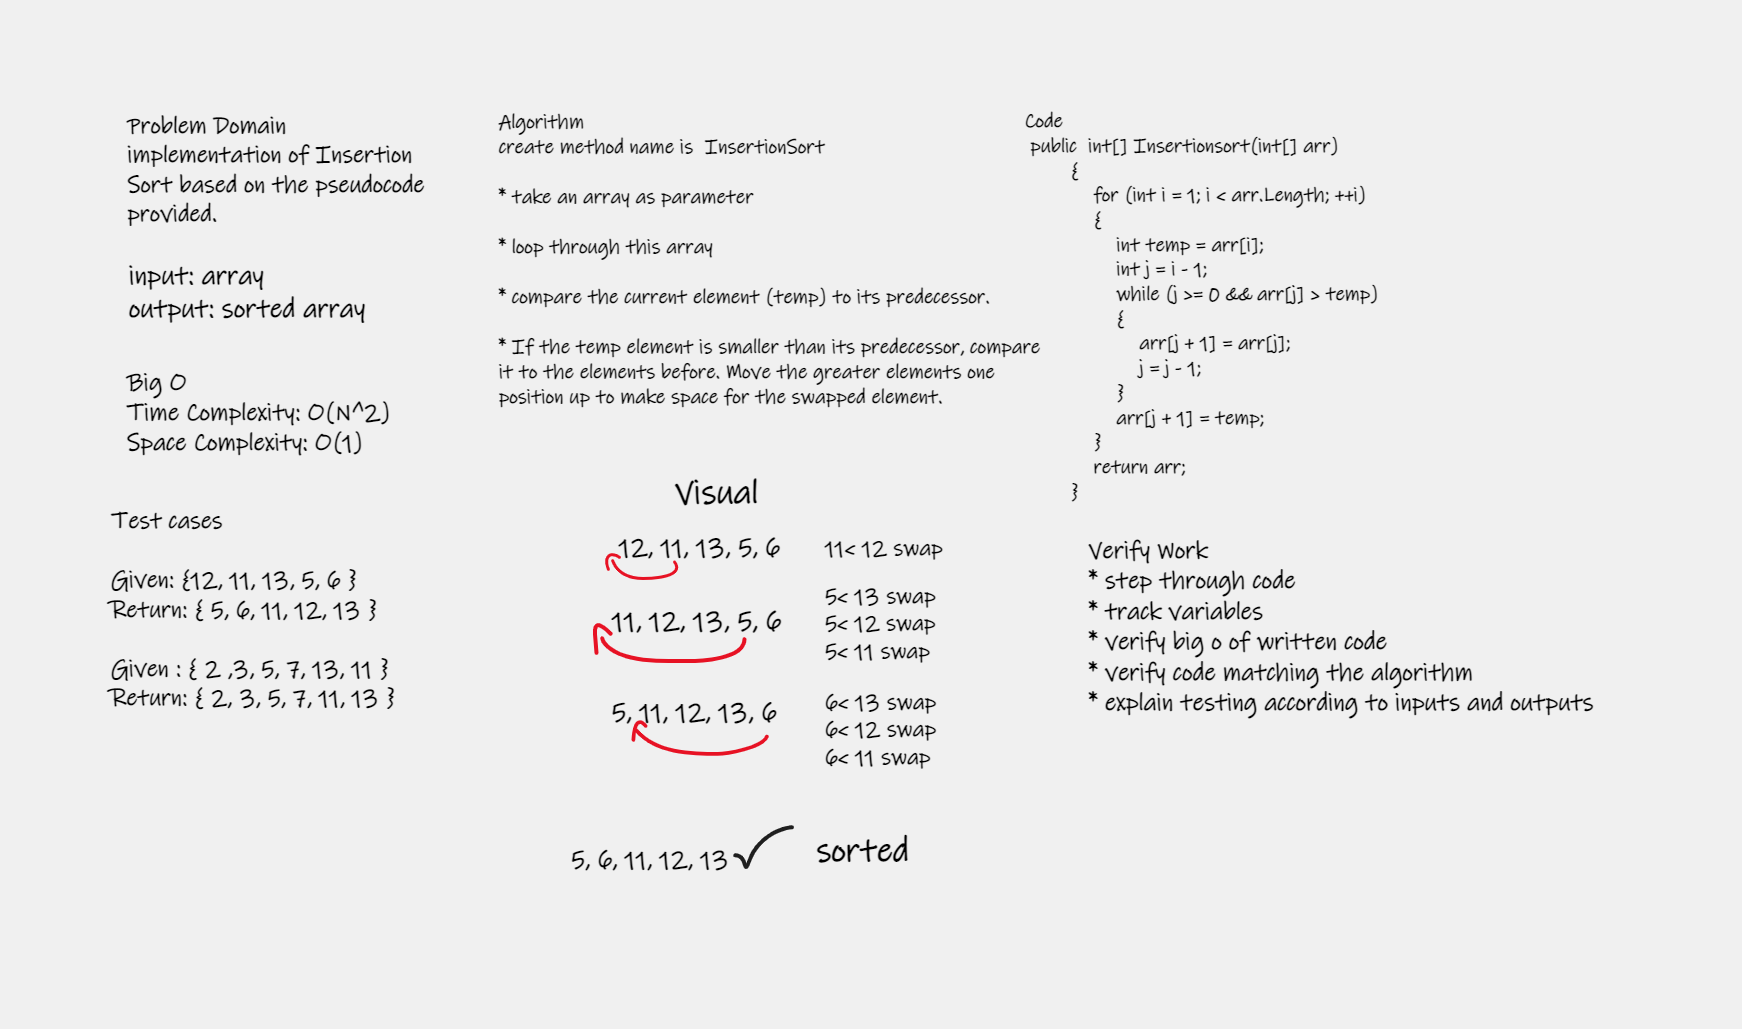
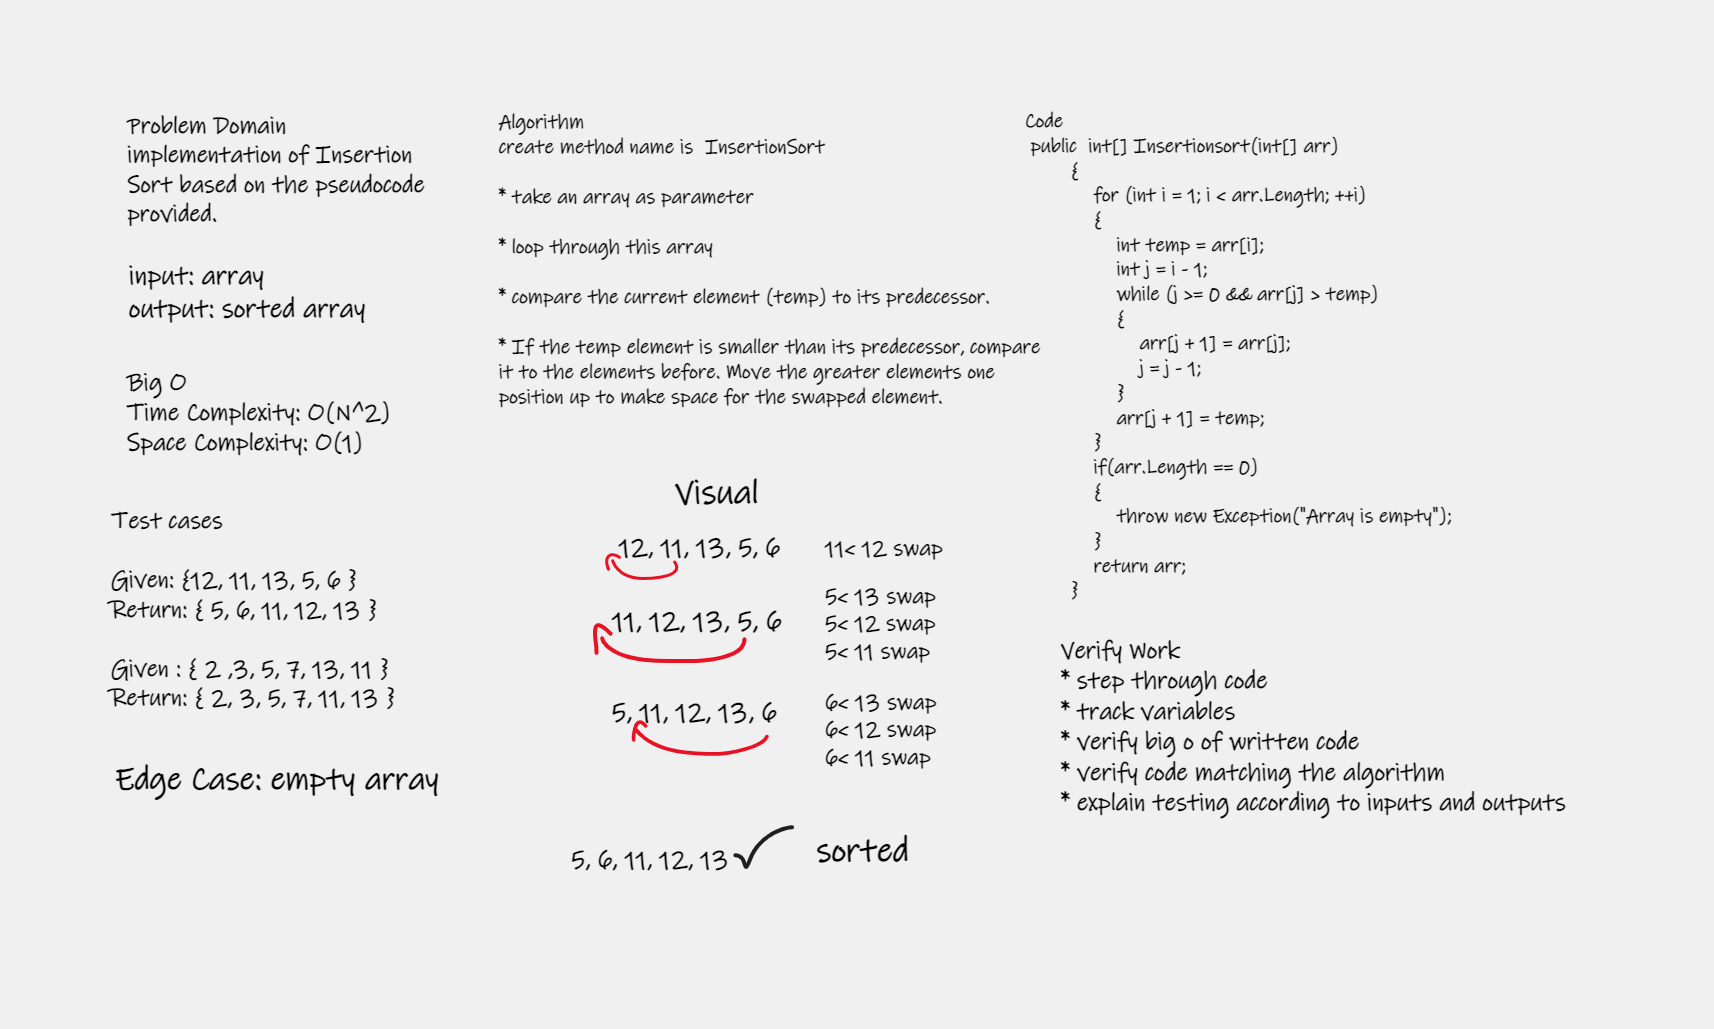
updates

diff --git a/ConsoleApp/TestProject2/TestInsertionSort.cs b/ConsoleApp/TestProject2/TestInsertionSort.cs
@@ -68,5 +68,14 @@ namespace TestProject2
             Assert.Equal(result, sort.PrintArray(array));
 
         }
+        [Fact]
+        public void Test6()
+        {
+            int[] array = new int[] { };
+            InsertionSort sort = new InsertionSort();
+            Exception ex = Assert.Throws<Exception>(() => sort.Insertionsort(array));
+            Assert.Equal("Array is empty", ex.Message);
+
+        }
     }
 }

diff --git a/ConsoleApp/ConsoleApp/Challenges/insertion-sort/InsertionSort.cs b/ConsoleApp/ConsoleApp/Challenges/insertion-sort/InsertionSort.cs
@@ -26,6 +26,10 @@ namespace ConsoleApp.Challenges.insertion_sort
                 }
                 arr[j + 1] = temp;
             }
+            if(arr.Length == 0)
+            {
+                throw new Exception("Array is empty");
+            }
             return arr;
         }
         public  int[] PrintArray(int[] arr)
